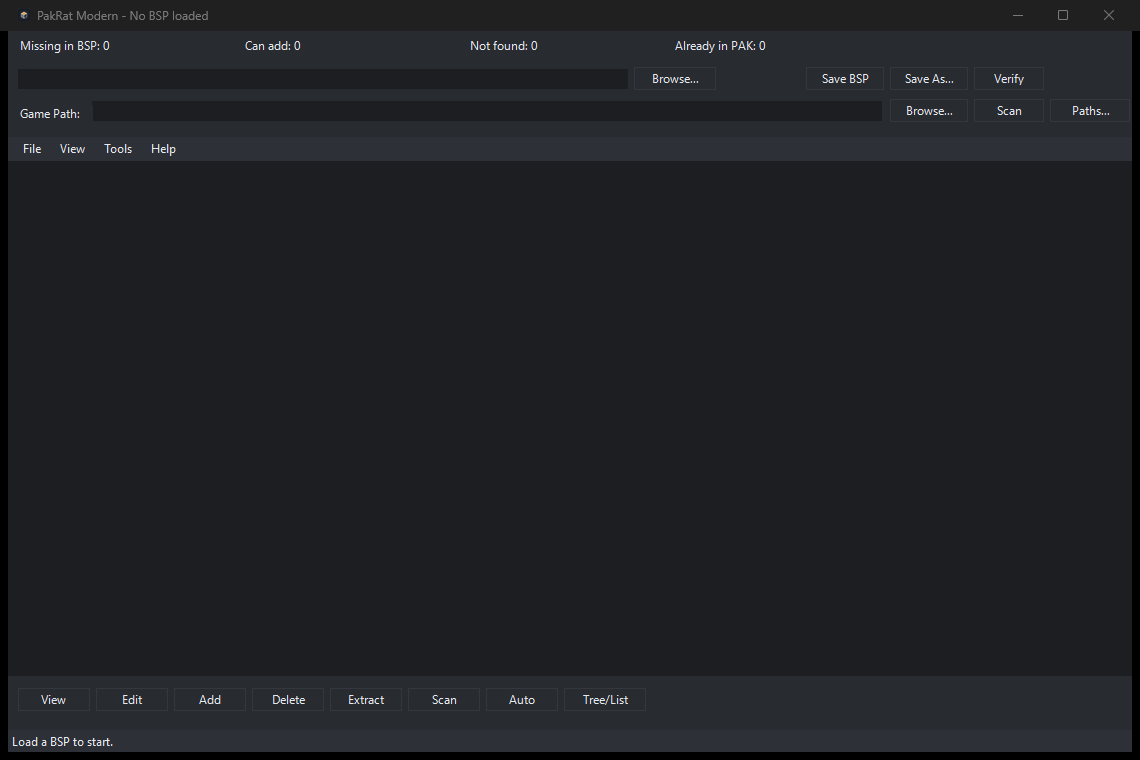
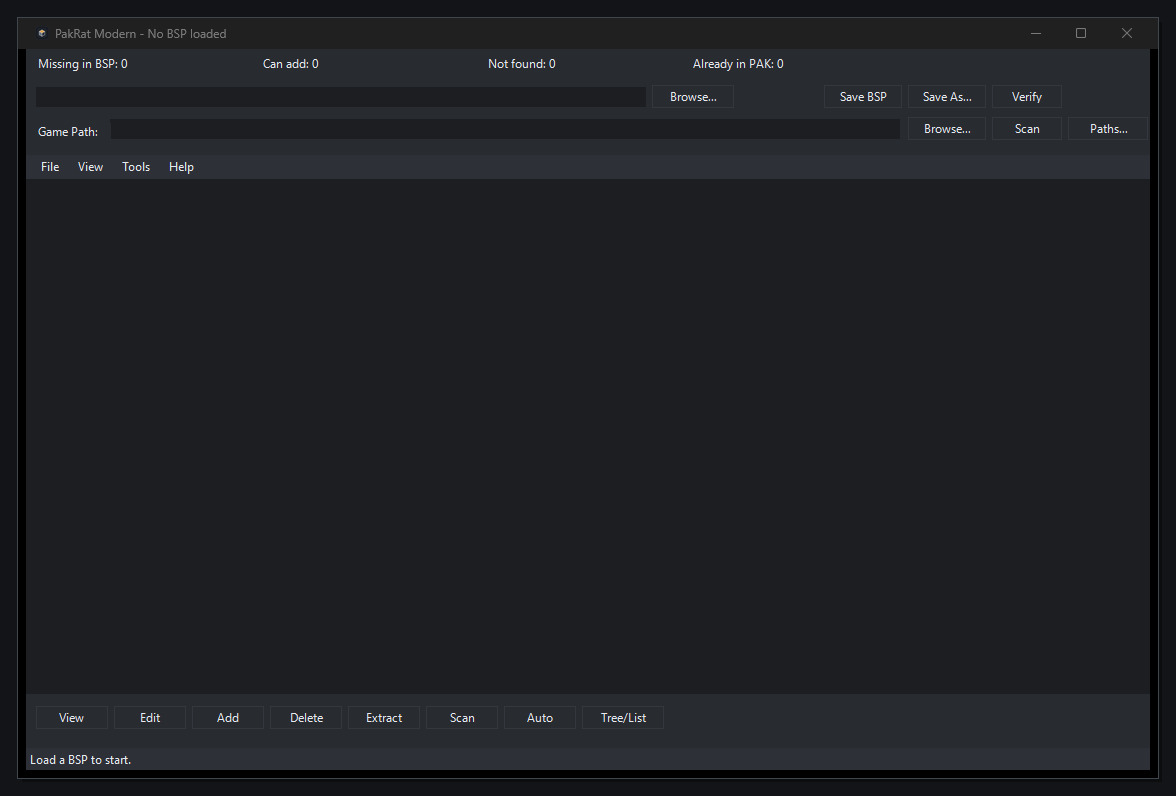
Polish dark UI consistency

diff --git a/README.md b/README.md
@@ -7,7 +7,7 @@ Modern PakRat-style tool for editing the `PAKFILE` lump inside Source `.bsp` map
 It includes:
 - Native Windows GUI
 - CLI for scripting and automation
-- Built `.exe` launcher for everyday use
+- Built `.exe` launcher
 
 ## GUI
 

diff --git a/CHANGELOG.md b/CHANGELOG.md
@@ -15,6 +15,7 @@
 - Optimized scan performance with VMT dependency caching.
 - Optimized base VPK lookup with a compiled helper for targeted VPK directory parsing.
 - Optimized disk existence checks during scan.
+- Improved dark theme consistency across app-owned dialogs and controls.
 - Updated app version to `1.1.0`.
 - Updated EXE metadata to `1.1.0.0`.
 - Removed the extra "Dark UI" line from About.

diff --git a/GITHUB_RELEASE_NOTES_1.1.0.md b/GITHUB_RELEASE_NOTES_1.1.0.md
@@ -13,6 +13,7 @@
 - Optimized scan performance with VMT dependency caching.
 - Optimized base VPK lookup with a compiled helper for targeted VPK directory parsing.
 - Optimized disk existence checks during scan.
+- Improved dark theme consistency across app-owned dialogs and controls.
 - Updated app version to `1.1.0`.
 - Updated EXE metadata to `1.1.0.0`.
 - Removed the extra "Dark UI" line from About.